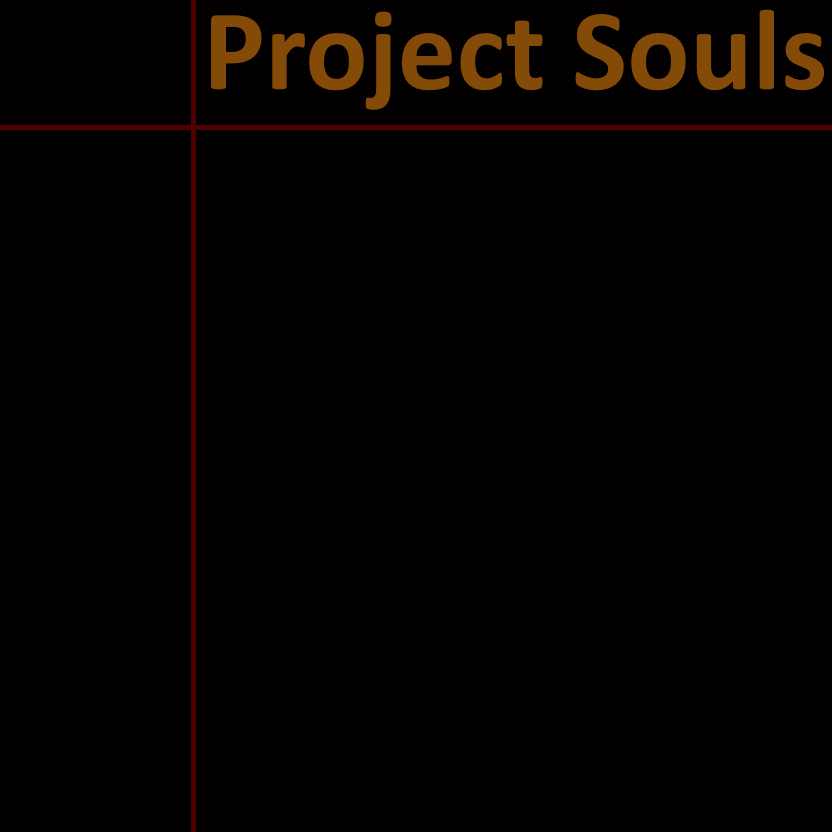
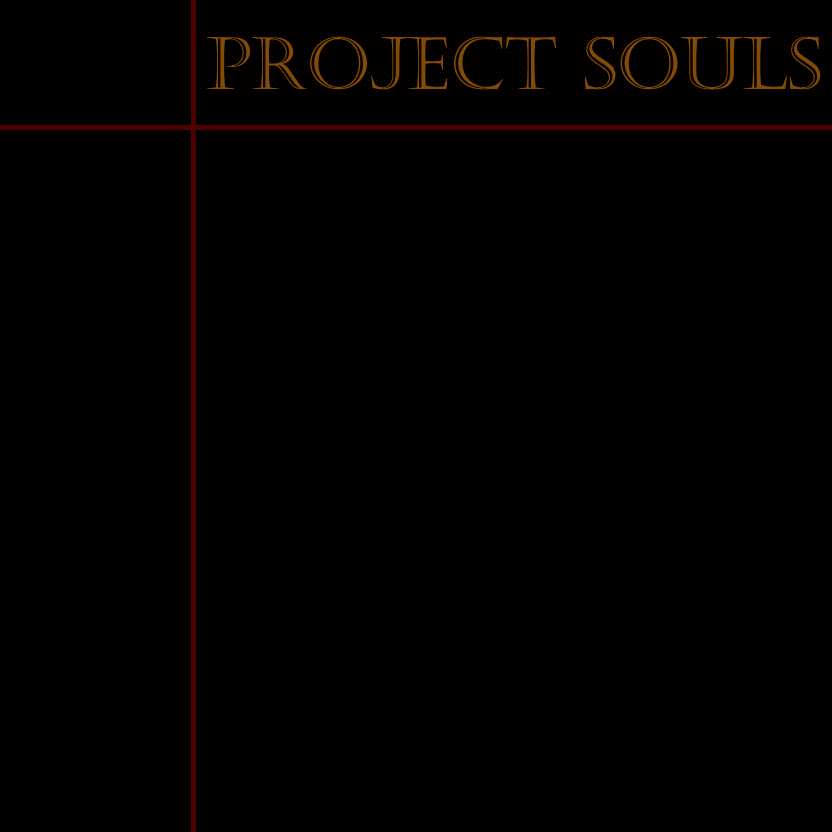
Changed the images for all main menu assets. Buttons now become highlighted when the mouse hovers over them

Changed region(s): [[0.25, 0.0, 0.6562, 0.1562], [0.6875, 0.0, 1.0, 0.125]]

diff --git a/Game.py b/Game.py
@@ -148,6 +148,7 @@ images_for_map = {
     "R": pygame.transform.scale(pygame.image.load("images\_tile3.png"), (SCALE, SCALE))
 }
 
+
 class Menu:
 
     def __init__(self, screen):
@@ -155,18 +156,21 @@ class Menu:
         self.Game_States_Menu = Game_State.NONE # Used to tell if the game is running, or if it has ended
         self.isMenu = True # If this is True then the game is currently on the main menu, otherwise the game has started
         self.menuPage = "main" # The two possible conditions are "main" and "credits"
+
         # The X and Y co-ords of the mouse
         self.xPos = 0
         self.yPos = 0
         self.mousePos = [self.xPos, self.yPos] # used to store and access the mouses position when left click is pressed
+
         # The buttons that will appear on the main menu
-        self.start_button_image = pygame.image.load("images/menu_button_start.png").convert_alpha()
-        self.quit_button_image = pygame.image.load("images/menu_button_quit.png").convert_alpha()
-        self.credits_button_image = pygame.image.load("images/menu_button_credits.png").convert_alpha()
-        self.back_button_image = pygame.image.load("images/menu_button_back.png").convert_alpha()
+        self.start_button_image = images_for_menu["Start"]
+        self.quit_button_image = images_for_menu["Quit"]
+        self.credits_button_image = images_for_menu["Credits"]
+        self.back_button_image = images_for_menu["Back"]
+
         # The background image that will be displayed whilst the main menu is open
-        self.main_menu_background = pygame.image.load("images/main_menu_background.png")
-        self.main_menu_credits = pygame.image.load("images/main_menu_credits.png")
+        self.main_menu_background = images_for_menu["Main_Menu_Background"]
+        self.main_menu_credits = images_for_menu["Credits_Background"]
 
     def set_up_menu(self):
         self.Game_States_Menu = Game_State.RUNNING
@@ -189,25 +193,50 @@ class Menu:
                     self.menuPage = "main"
                     print("Back Button Clicked")
 
+    def check_if_mouse_over_button(self, xPos, yPos):  # Used to check if the mouse is over a button so it can be highlighted
+        if self.menuPage == "main": # if the menu page is main then the following button co-ords are used
+            if xPos > 32 and xPos < 160:
+                if yPos > 160 and yPos < 224:
+                    self.start_button_image = images_for_menu["Start_Hover"]
+                elif yPos > 288 and yPos < 352:
+                    self.credits_button_image = images_for_menu["Credits_Hover"]
+                elif yPos > 416 and yPos < 480:
+                    self.quit_button_image = images_for_menu["Quit_Hover"]
+
+        elif self.menuPage == "credits":  # if the menu page is credits then the following button co-ords are used
+            if xPos > 32 and xPos < 160:
+                if yPos > 160 and yPos < 224:
+                    self.back_button_image = images_for_menu["Back_Hover"]
+
+    def reset_menu_images(self):  # Sets the menu images back to their defaults, this is to clean up any changes made to them
+        self.start_button_image = images_for_menu["Start"]
+        self.quit_button_image = images_for_menu["Quit"]
+        self.credits_button_image = images_for_menu["Credits"]
+        self.back_button_image = images_for_menu["Back"]
+
     def draw_menu(self, screen):
 
         if self.menuPage == "main":
             screen.blit(self.main_menu_background, (0, 0))  # Draws the quit button
-
-            screen.blit(self.start_button_image, (32, 160))# Draws the start button
-
-            screen.blit(self.credits_button_image, (32, 288))# Draws the credits button
-
-            screen.blit(self.quit_button_image, (32, 416))# Draws the quit button
+            screen.blit(self.start_button_image, (32, 160))  # Draws the start button
+            screen.blit(self.credits_button_image, (32, 288))  # Draws the credits button
+            screen.blit(self.quit_button_image, (32, 416))  # Draws the quit button
 
         elif self.menuPage == "credits":
-            screen.blit(self.main_menu_credits, (0, 0)) # Draw the credits image to the screen
-
-            screen.blit(self.back_button_image, (32, 160)) # Draws the back button on the credits screen
+            screen.blit(self.main_menu_credits, (0, 0))  # Draw the credits image to the screen
+            screen.blit(self.back_button_image, (32, 160))  # Draws the back button on the credits screen
 
     def update(self):
         self.screen.fill((0, 0, 0))
+
+        self.mousePos = pygame.mouse.get_pos()
+
+        self.reset_menu_images()
+
+        self.check_if_mouse_over_button(self.mousePos[0], self.mousePos[1])
+
         self.draw_menu(self.screen)
+
         self.handle_events()
 
     def handle_events(self):
@@ -217,5 +246,20 @@ class Menu:
                 self.isMenu = False
 
             elif event.type == pygame.MOUSEBUTTONDOWN:          #Key events
+                print("Mouse Clicked")
                 self.mousePos = pygame.mouse.get_pos()
                 self.mouse_click(self.mousePos[0], self.mousePos[1])
+
+# The images used for the main menu
+images_for_menu = {
+    "Start": pygame.image.load("images/menu_button_start.png"),
+    "Start_Hover": pygame.image.load("images/menu_button_start_hover.png"),
+    "Quit": pygame.image.load("images/menu_button_quit.png"),
+    "Quit_Hover": pygame.image.load("images/menu_button_quit_hover.png"),
+    "Credits": pygame.image.load("images/menu_button_credits.png"),
+    "Credits_Hover": pygame.image.load("images/menu_button_credits_hover.png"),
+    "Back": pygame.image.load("images/menu_button_back.png"),
+    "Back_Hover": pygame.image.load("images/menu_button_back_hover.png"),
+    "Main_Menu_Background": pygame.image.load("images/main_menu_background.png"),
+    "Credits_Background": pygame.image.load("images/main_menu_credits.png")
+}
